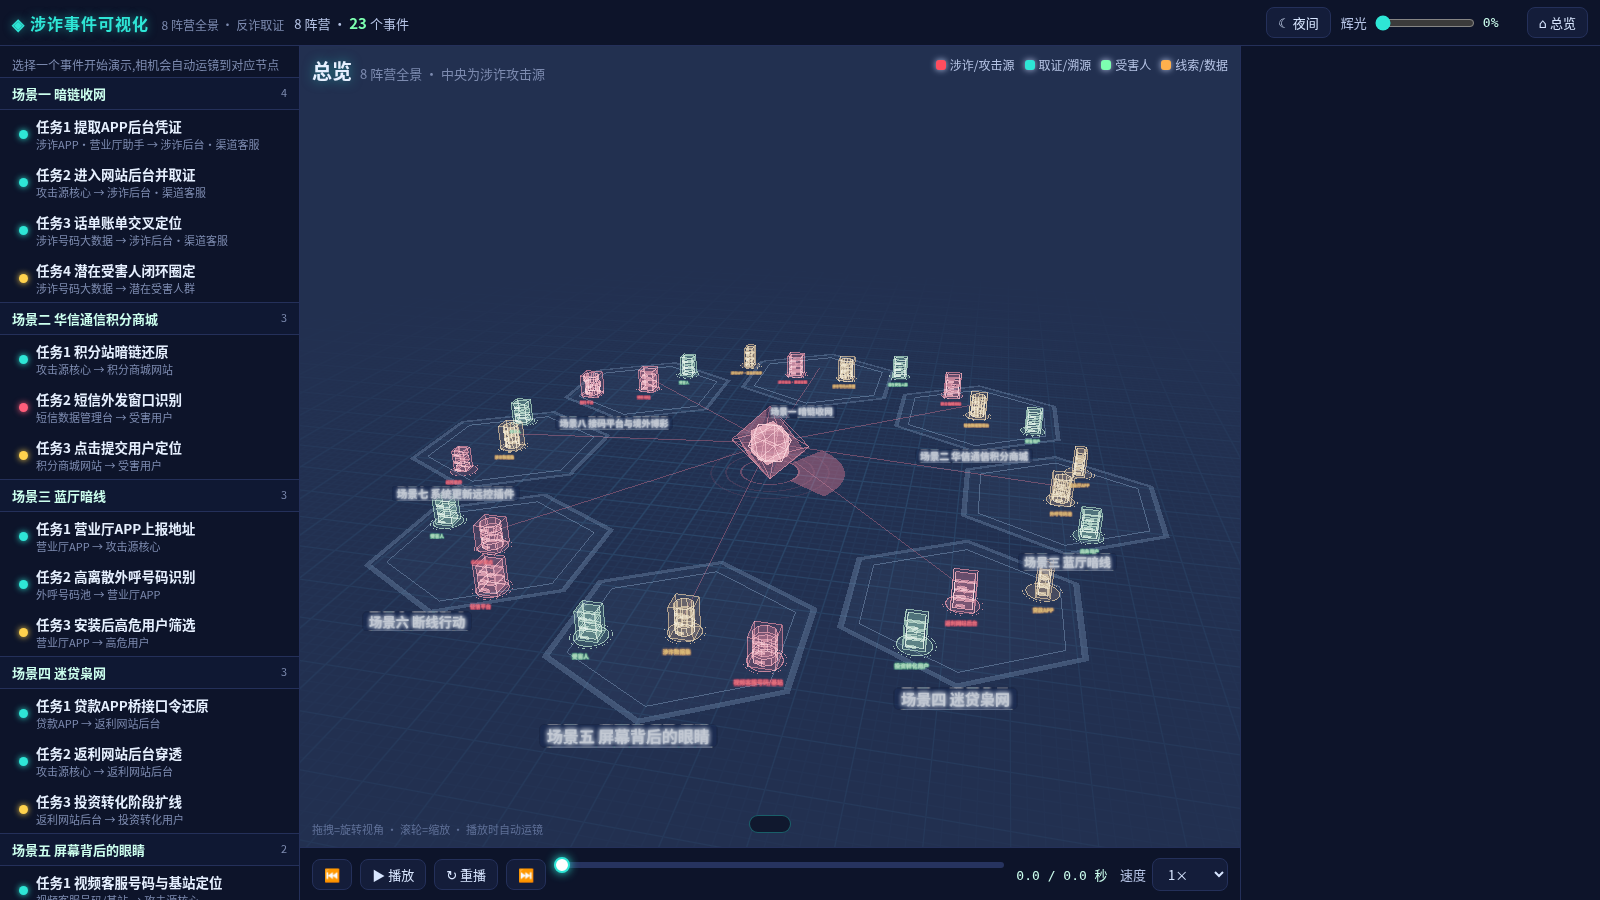
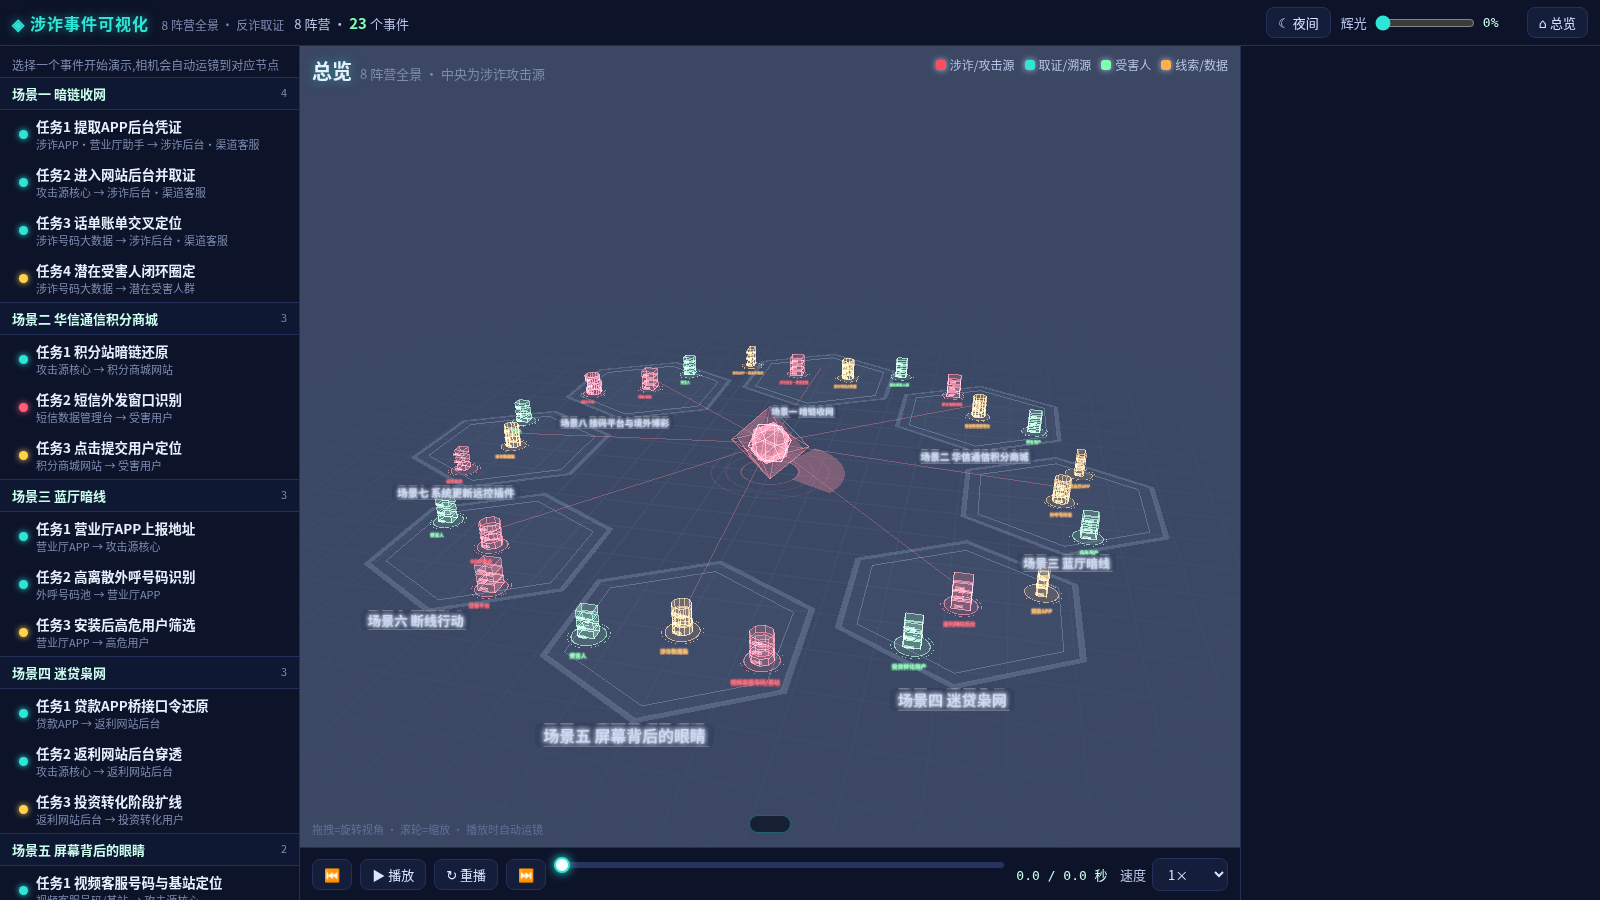
对齐单场景渲染:去掉ACES与外层大外壳(多节点叠加泛白主因),地面/环境再压暗

diff --git a/js/stage-world.js b/js/stage-world.js
@@ -4,7 +4,7 @@
 const S = window.SEC, T = S.T, V3 = S.V3, { COL, col, clamp, sm, eo, rng, U, Glow, Node, PR, Ctx, holoMat, addMat, lineMat, textSprite, AZ } = S;
 const W = window.FRAUD_WORLD;
   // 大场景节点多,整体降一档辉光避免发白
-  if (S.TUNE) { S.TUNE.glowA = 0.24; S.TUNE.glowS = 0.62; }
+  if (S.TUNE) { S.TUNE.glowA = 0.22; S.TUNE.glowS = 0.6; }
 const lerp = (a, b, k) => a + (b - a) * k;
 const easeIO = x => x < 0.5 ? 4 * x * x * x : 1 - Math.pow(-2 * x + 2, 3) / 2;
 
@@ -17,7 +17,7 @@ function Stage(canvas, host) {
   });
   if (!renderer) throw lastErr || new Error('WebGL 不可用');
   self.safe = /[?&]safe=1/.test(location.search); self.lost = false;
-  renderer.setPixelRatio(Math.min(window.devicePixelRatio || 1, 2)); renderer.setClearColor(0x0b1020, 1); renderer.toneMapping = T.ACESFilmicToneMapping; renderer.toneMappingExposure = 0.76;
+  renderer.setPixelRatio(Math.min(window.devicePixelRatio || 1, 2)); renderer.setClearColor(0x0b1020, 1);
   const scene = new T.Scene(); scene.background = new T.Color('#0b1020');
   const cam = new T.PerspectiveCamera(46, 16 / 9, 0.5, 4000);
 
@@ -42,12 +42,12 @@ function Stage(canvas, host) {
   const grid = new T.Mesh(new T.PlaneGeometry(180, 180), new T.ShaderMaterial({
     uniforms: { uDay: { value: 0 } }, transparent: true, depthWrite: false, blending: T.AdditiveBlending,
     vertexShader: 'varying vec3 vW;void main(){vec4 w=modelMatrix*vec4(position,1.);vW=w.xyz;gl_Position=projectionMatrix*viewMatrix*w;}',
-    fragmentShader: 'varying vec3 vW;uniform float uDay;void main(){vec2 p=vW.xz;vec2 g=abs(fract(p-.5)-.5)/fwidth(p);float l=1.-min(min(g.x,g.y),1.);vec2 g2=abs(fract(p/5.-.5)-.5)/fwidth(p/5.);float l2=1.-min(min(g2.x,g2.y),1.);float d=length(p)*0.016;float f=exp(-d*d*1.6);if(uDay>0.5){float a=clamp((l*.6+l2*.9)*f,0.,.8);gl_FragColor=vec4(vec3(.27,.32,.39),a);}else{gl_FragColor=vec4(vec3(.05,.17,.26)*(l*.07+l2*.17)*f+vec3(0.,.04,.06)*f*.02,1.);}}',
+    fragmentShader: 'varying vec3 vW;uniform float uDay;void main(){vec2 p=vW.xz;vec2 g=abs(fract(p-.5)-.5)/fwidth(p);float l=1.-min(min(g.x,g.y),1.);vec2 g2=abs(fract(p/5.-.5)-.5)/fwidth(p/5.);float l2=1.-min(min(g2.x,g2.y),1.);float d=length(p)*0.016;float f=exp(-d*d*1.6);if(uDay>0.5){float a=clamp((l*.6+l2*.9)*f,0.,.8);gl_FragColor=vec4(vec3(.27,.32,.39),a);}else{gl_FragColor=vec4(vec3(.04,.13,.2)*(l*.05+l2*.13)*f,1.);}}',
   }));
   grid.rotation.x = -Math.PI / 2; grid.position.y = -0.02; scene.add(grid);
 
   const glow = new Glow(26000); scene.add(glow.points);
-  const ambient = []; { const r = rng(7); for (let i = 0; i < 32; i++) ambient.push([(r() - .5) * 85, r() * 6, (r() - .5) * 85, r() * 6.28, 0.4 + r() * 0.8]); }
+  const ambient = []; { const r = rng(7); for (let i = 0; i < 14; i++) ambient.push([(r() - .5) * 80, r() * 5, (r() - .5) * 80, r() * 6.28, 0.4 + r() * 0.8]); }
 
   // ---- 阵营地台 + 名称 ----
   const campLabels = [];
@@ -172,7 +172,7 @@ function Stage(canvas, host) {
     for (const o of [coreEdge, shellEdge]) o.material.color.copy(col('atk'));
     glow.add(0, 3.4, 0, 1.4 * pulse, col('atk'), 0.5);
     // 节点 reset + 事件 + apply
-    nodes.forEach(n => n.reset());
+    nodes.forEach(n => { n.reset(); n.shellA = 0; });
     for (let i = 0; i < ups.length; i++) { try { ups[i](t); } catch (err) { self.errors.push((ev ? ev.id : '') + '@' + t.toFixed(2) + ':' + err.message); ups[i] = () => {}; } }
     nodes.forEach(n => n.apply(t));
     glow.flush();
